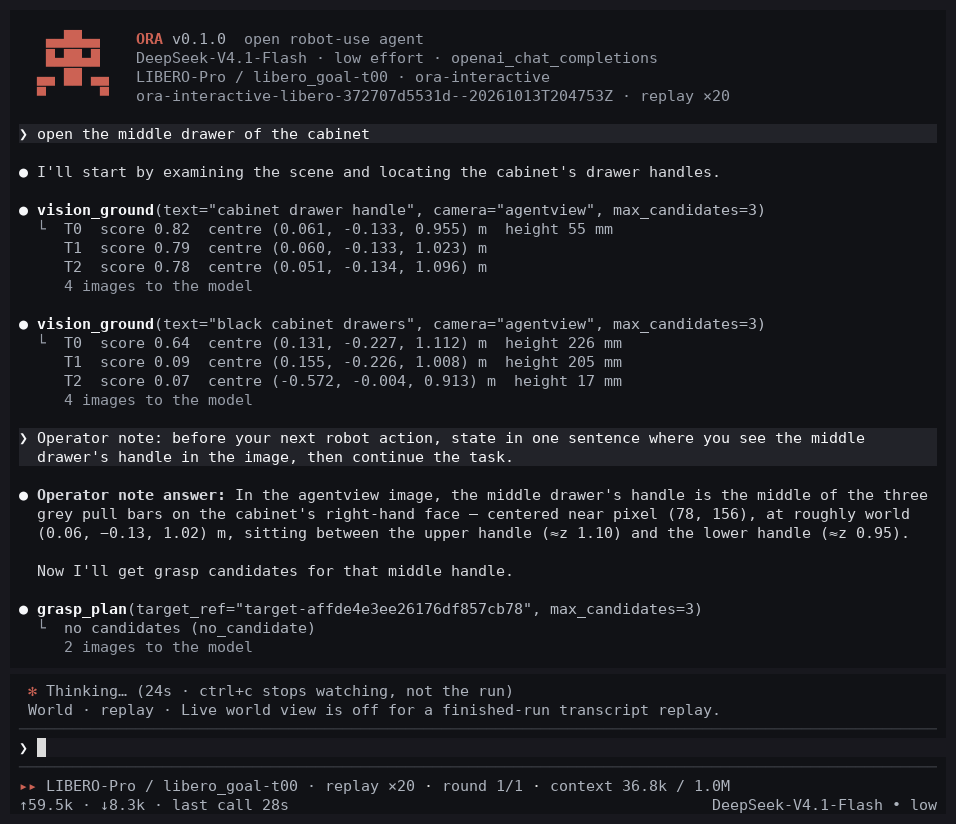
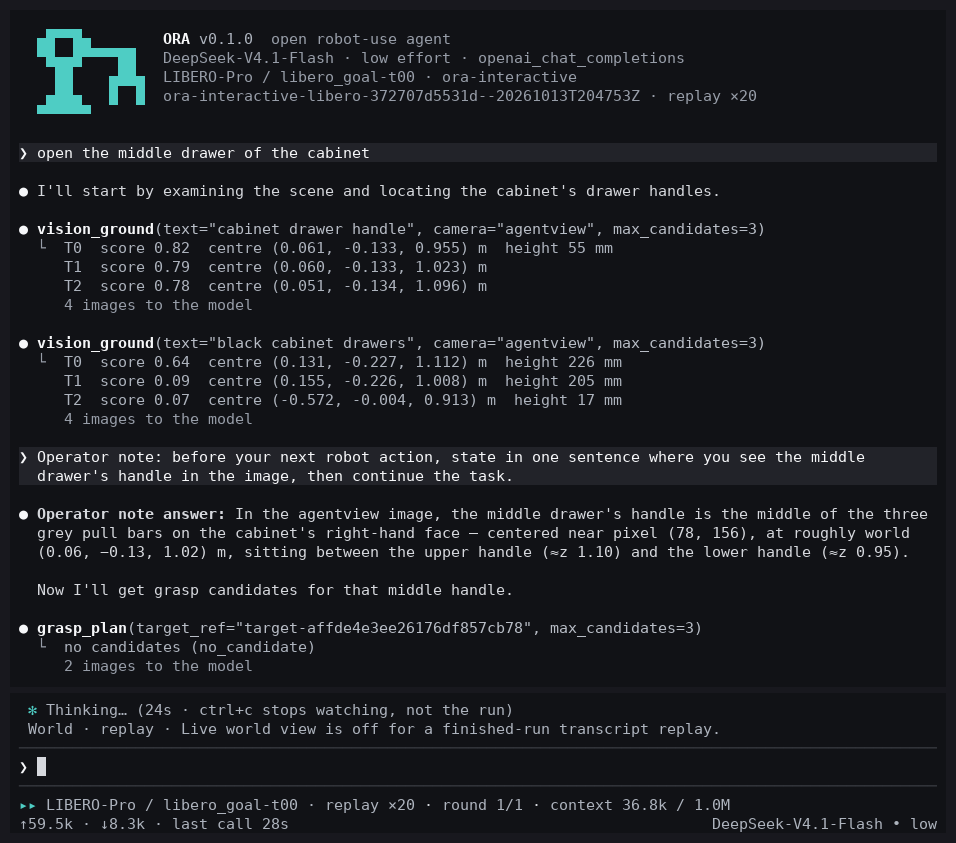
Terminal UI: pixel robot-arm mark in the Hao AI Lab teal
Both terminal front ends draw ORA's mark as the 13 x 9 pixel robot arm of the README mark and the launch replays, instead of the robot head. The accent (mark, spinner and the ▸▸ footer marker) moves from red #cc6254 to the Hao AI Lab dark-mode theme colour, teal #4ecdc4; ora-tui draws the ORA name in bold white. The verdict green is unchanged. The docs terminal screenshot is re-rendered from the same replay frame with the new code.

diff --git a/ora/agent/native/tui/screen.py b/ora/agent/native/tui/screen.py
@@ -16,7 +16,8 @@ from .condense import Segment
 
 Line = list[Segment]
 
-ORA_RED = "\x1b[38;2;204;98;84m"
+# ORA's accent (mark, spinner, ▸▸ markers): the Hao AI Lab theme colour on dark, teal #4ecdc4.
+ORA_ACCENT = "\x1b[38;2;78;205;196m"
 STYLES = {
     "txt": "\x1b[38;5;253m",
     "dim": "\x1b[38;5;245m",
@@ -24,7 +25,7 @@ STYLES = {
     "bold": "\x1b[1;97m",
     "arg": "\x1b[38;5;249m",
     "res": "\x1b[38;5;247m",
-    "ora": ORA_RED,
+    "ora": ORA_ACCENT,
     "ok": "\x1b[38;2;127;211;160m",
     "ok_dot": "\x1b[38;2;127;211;160m",
     "warn": "\x1b[33m",
@@ -36,15 +37,17 @@ STYLES = {
 }
 RESET = "\x1b[0m"
 SPINNER = "·✢✳✶✻✽✻✶✳✢"
-# ORA's mark: a small robot head on a neck with a gripper either side (10 x 7 cells).
+# ORA's mark: a pixel robot arm (base, column, shoulder joint, arm, two-finger gripper; 13 x 9 cells).
 LOGO = (
-    "....##....",
-    "..######..",
-    "..#.##.#..",
-    "..######..",
-    "....##....",
-    ".##.##.##.",
-    ".#......#.",
+    "..####.......",
+    ".##..##......",
+    ".##..#######.",
+    "..####....##.",
+    "...##.....##.",
+    "...##....####",
+    "...##....#..#",
+    "..####...#..#",
+    ".######......",
 )
 
 
@@ -140,12 +143,12 @@ class Screen:
         rule = STYLES["faint"] + "─" * width + RESET
         rows = [""]
         if status:
-            rows.append(ORA_RED + glyph + RESET + " " + STYLES["txt"] + status[: width - 2] + RESET)
+            rows.append(ORA_ACCENT + glyph + RESET + " " + STYLES["txt"] + status[: width - 2] + RESET)
         rows.append(rule)
         rows.append(STYLES["bold"] + "❯ " + RESET + STYLES["faint"] + prompt[: width - 2] + RESET)
         rows.append(rule)
         rest = " · " + left
-        footer = ORA_RED + "▸▸ " + RESET + STYLES["txt"] + "robot mode on" + RESET + STYLES["dim"] + rest[: width - 16] + RESET
+        footer = ORA_ACCENT + "▸▸ " + RESET + STYLES["txt"] + "robot mode on" + RESET + STYLES["dim"] + rest[: width - 16] + RESET
         pad = width - 16 - len(rest) - len(right)
         if right and pad >= 2:
             footer += " " * pad + STYLES["dim"] + right + RESET

diff --git a/tests/test_ora_watch.py b/tests/test_ora_watch.py
@@ -89,10 +89,11 @@ def _run(tmp_path: Path, *, state: str | None = "completed") -> Path:
 
 
 EXPECTED = """\
-   ▄▄██▄▄     ORA v-test  open robot-use agent
-   █▄██▄█     open-model-1 · low effort · openai_chat_completions
-  ▄▄ ██ ▄▄    RoboDojo / pour_by_language · exp-test
-  ▀      ▀    exp-robodojo-abc--20261012T000000Z · finished run
+  ▄█▀▀█▄         ORA v-test  open robot-use agent
+  ▀█▄▄█▀▀▀▀██    open-model-1 · low effort · openai_chat_completions
+    ██    ▄██▄   RoboDojo / pour_by_language · exp-test
+   ▄██▄   █  █   exp-robodojo-abc--20261012T000000Z · finished run
+  ▀▀▀▀▀▀
 
 ❯ Pour the water into the black bowl.
 
@@ -160,6 +161,8 @@ def test_replay_draws_a_live_status_with_recorded_elapsed_time(tmp_path):
     assert "Thinking… (1s" in text            # two recorded seconds per event, replayed at x4
     assert "Moving on the robot…" in text and "Compacting context…" in text
     assert "\x1b[?25h" in text                # the cursor is restored
+    teal = "\x1b[38;2;78;205;196m"            # ORA's accent: the Hao AI Lab theme colour on dark
+    assert teal + "  ▄█▀▀█▄" in text and teal + "▸▸ " in text and "38;2;204;98;84" not in text
 
 
 def test_live_run_is_followed_until_the_session_closes(tmp_path):

diff --git a/docs/usage/runs.md b/docs/usage/runs.md
@@ -34,7 +34,9 @@ which tools it called with condensed results, refusals, action receipts and
 each round's official verdict. It follows a live run and replays a finished
 one on recorded time (`--speed 0` prints it at once). For the pi-tui front
 end, install Node 20+ and run `npm ci` in `ora-tui/` once; without it `ora
-watch` uses its built-in terminal view. `ora watch RUN_ID --raw` prints the
+watch` uses its built-in terminal view. Both views head the transcript with
+ORA's mark, a pixel robot arm, in teal (`#4ecdc4`), the accent that also marks
+the spinner and the `▸▸` footer. `ora watch RUN_ID --raw` prints the
 canonical causal events as JSON lines instead.
 
 A live `ora watch` in a terminal also opens a read-only browser window bound
